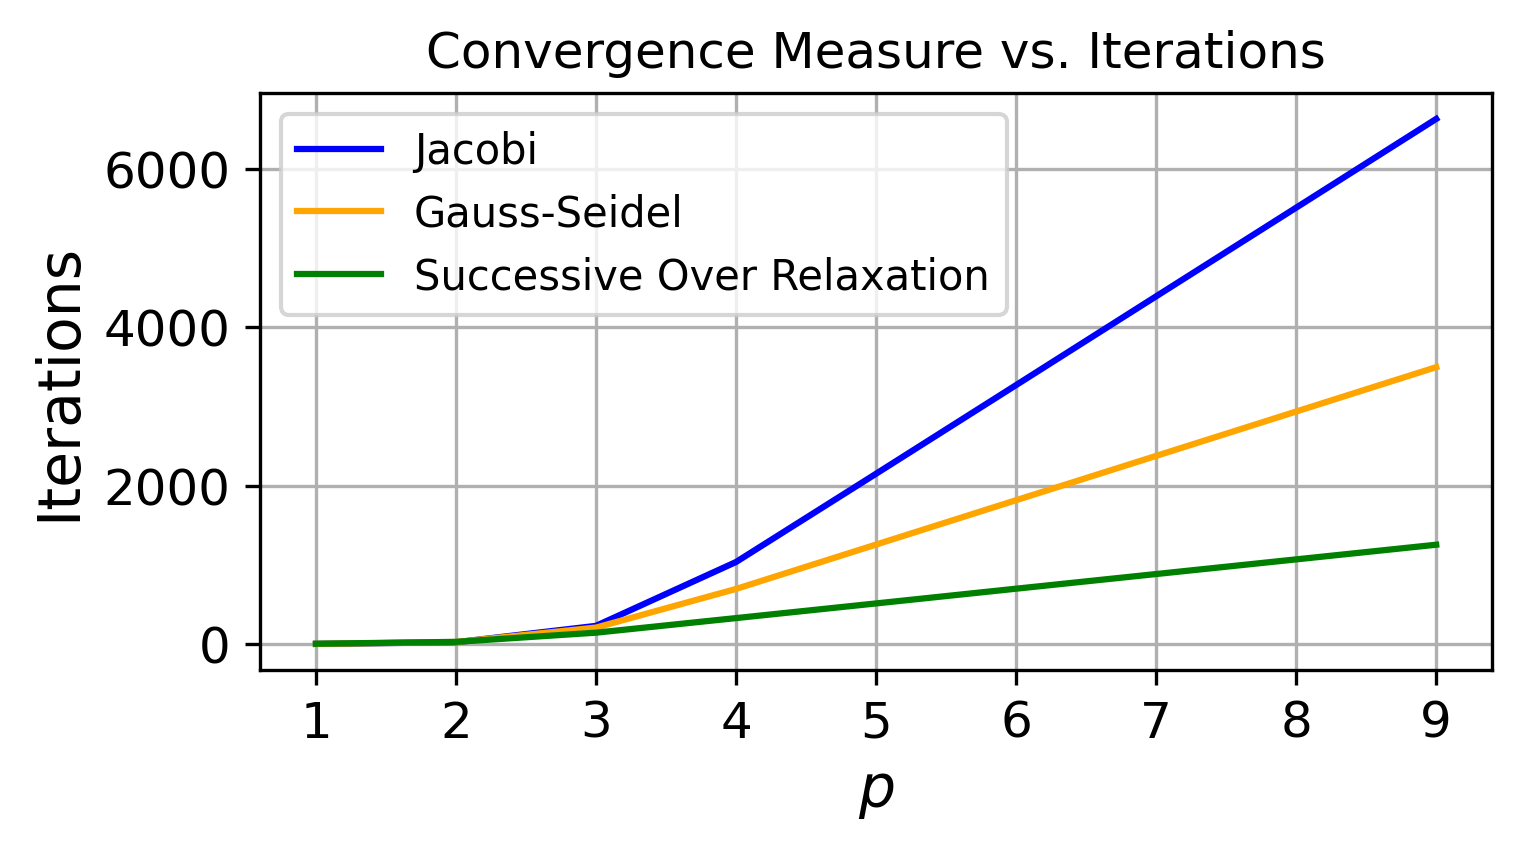
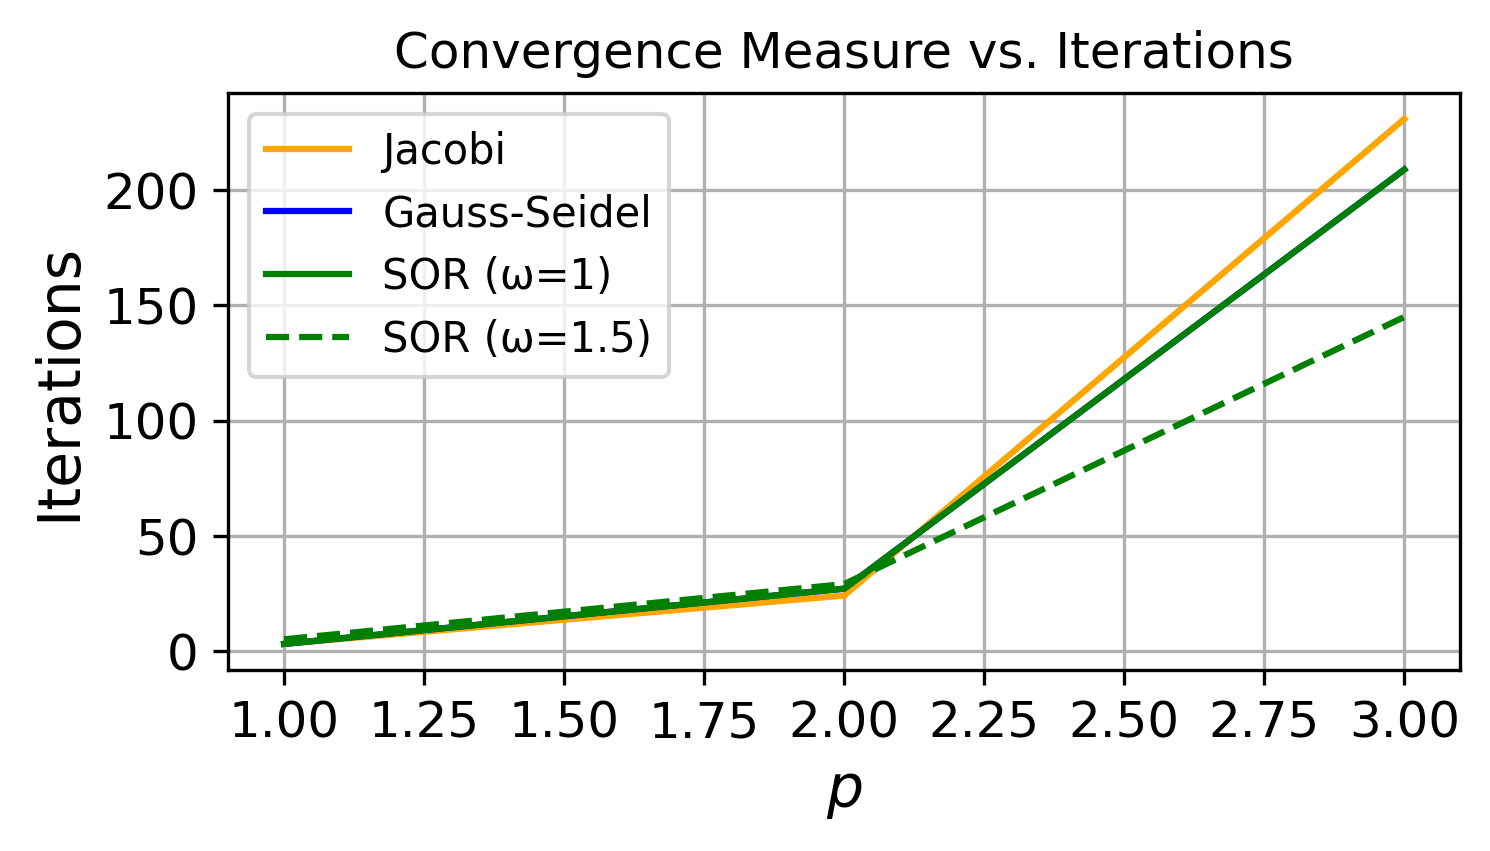
new colors and linestyles for plots

Changed region(s): [[0.0309, 0.0917, 0.9879, 0.9777], [0.247, 0.0306, 0.8644, 0.0917], [0.0309, 0.3055, 0.0617, 0.3361]]

diff --git a/src/visualizations.py b/src/visualizations.py
@@ -68,14 +68,137 @@ def animate_1c(L, N, c, deltat):
     
     animation = FuncAnimation(fig, animate, frames=1500, interval=1)
     animation.save("plots/network_animation10.gif", fps=50,  writer="ffmpeg")
+    plt.show()   
+
+
+def plot_analytical_solution(y, solutions_vals, times, D):
+    """
+    Funcion comparing analytical solution to numerical solution. 
+    Plotting points for numerical solution and line for analytical soltution 
+    """
+    nx = 100
+    y_analytic = np.linspace(0.0, 1.0, nx)
+
+    plt.figure(figsize=(4.5, 3))
+    colors = ["orange", "blue", "green", "purple", "brown"]
+
+    for i, t_val in enumerate(times):
+        # Analytical
+        c_analytical = [solutions.analytical_solution(yy, t_val, D=D) for yy in y_analytic]
+        plt.plot(y_analytic, c_analytical, color = colors[i], linewidth=0.8, label=f"t={t_val:.3g}")
+
+        c_analytical = np.array(c_analytical)
+
+        # mean of the row (should theoretically all be the same)
+        c2D = solutions_vals[i]
+        # c_avg = np.mean(c2D, axis=1)
+        c_first = c2D[:, 0]  
+
+        # slice array to avoid clutteredness
+        plt.plot(y[::2], c_first[::2], "o", color = colors[i], markersize=2)
+
+    plt.xlabel("y (Position)")
+    plt.ylabel("Concentration c(y, t)")
+    plt.legend()
+    plt.title("Diffusion Simulation vs Analytical Solution")
+    plt.grid(True)
+    plt.savefig("plots/diffusion_analytical.png", dpi=300, bbox_inches="tight")
     plt.show()
 
-def visualization_1i(p_values, iterations_jacobi, iterations_gauss_seidel, iterations_sor):
-    
+
+def plot_five_states(all_c, times):
+    """
+    function plotting the 2D diffustion grid, 
+    5 states for t = 0, 0.001, 0.01, 0.1, 1.0
+    """
+
+    # # read in/ generate data 
+    # data_file = "2D_diffusion.pkl"
+    # create_new_data = False
+    # all_c, times = solutions.check_and_parse_data(data_file, create_new_data, parameters)
+
+    # plot setup
+    fig, axs = plt.subplots(2, 3, figsize=(5.8, 4.3), sharex=True, sharey=True)
+    fig.suptitle("2D Diffusion at Different t Values")
+    axs = axs.flatten()  
+
+    # Hide the last unused subplot
+    axs[-1].set_visible(False)  
+    for i in range(5):
+        im = axs[i].imshow(all_c[i], cmap="viridis", interpolation="nearest", origin="lower")
+        axs[i].set_title(f"t = {times[i]}")
+        if i >1: 
+            axs[i].set_xlabel("x")
+
+    # set proper ticks and labels
+    axs[2].xaxis.set_tick_params(which='both', labelbottom=True)
+    axs[0].set_ylabel("y")
+    axs[3].set_ylabel("y")
+
+    cbar_ax = fig.add_axes([0.92, 0.09, 0.02, 0.75])  # [left, bottom, width, height]
+    fig.colorbar(im, cax=cbar_ax, label="Concentration")
+
+    plt.tight_layout(rect=[0, 0, 0.93, 1])
+    plt.subplots_adjust(wspace=0.05, hspace=0.2) 
+    plt.savefig("plots/diffusion_snapshots.png", dpi=300)
+    plt.show()
+
+def plot_simulation_without_animation(grids, N):
+    fig, ax = plt.subplots(figsize=(7, 7))
+
+    c_plot = ax.pcolormesh(grids[-1], cmap="viridis", edgecolors="k", linewidth=0.5)
+
+    # plt.imshow(c, cmap="viridis", interpolation="nearest", origin="lower")
+    plt.colorbar(c_plot, ax=ax, label="Concentration")
+    ax.set_xticks(np.arange(N))
+    ax.set_yticks(np.arange(N))
+    ax.set_xticklabels([])
+    ax.set_yticklabels([])
+    ax.set_title("2D Diffusion")
+    plt.show()
+
+
+def animate_2f(update_func, grid, num_steps, N, gamma, dt, interval=50):
+    path = "data/2D_diffusion_comparison.pkl"
+    if os.path.exists(path):
+        grids, times = pkl.load(open(path, "rb"))
+    else:
+        grids, times = update_func(grid, num_steps, N, gamma, dt)
+
+    print(f"Starting grid: {grid}")
+
+    fig, axs = plt.subplots(figsize=(6, 6))
+    img = axs.imshow(grids[0], cmap="viridis", interpolation="nearest", origin="lower")
+    plt.colorbar(img, ax=axs, label="Concentration")
+    axs.set_title("2D Diffusion Simulation")
+
+    def animate(frame):
+        img.set_array(grids[frame])
+        axs.set_title(f"2D Diffusion Simulation (Step: {frame:.3g})")
+
+    animation = FuncAnimation(
+        fig, animate, frames=len(grids), interval=interval, blit=False
+    )
+    animation.save("plots/2D_diffusion.gif", fps=50, writer="ffmpeg")
+
+    plt.close(fig)
+    return animation
+
+
+def visualization_1i(p_values, iterations_jacobi, iterations_gauss_seidel, iterations_sor, colors):
+
     plt.figure(figsize=(5.3, 2.5))
-    plt.plot(p_values, iterations_jacobi, color='blue', label="Jacobi")
-    plt.plot(p_values, iterations_gauss_seidel, color='orange', label="Gauss-Seidel")
-    plt.plot(p_values, iterations_sor, color='green', label="Successive Over Relaxation")
+    
+    linestyles = ['-', '--', '-.', ':']
+    num_styles = len(linestyles)
+
+    plt.plot(p_values, iterations_jacobi, color=colors[0], label="Jacobi")
+    plt.plot(p_values, iterations_gauss_seidel, color=colors[1], label="Gauss-Seidel")
+
+    for i, (omega, sor_iterations) in enumerate(iterations_sor.items()):
+        plt.plot(p_values, sor_iterations, label=f"SOR (ω={omega})", color=colors[2], linestyle=linestyles[i % num_styles])
+
+    # plt.plot(p_values, iterations_sor, color=colors[2], label="Successive Over Relaxation")
     plt.xlabel(r'$p$', fontsize=14)
     plt.ylabel('Iterations', fontsize=14)
     plt.xticks(fontsize=12)
@@ -87,12 +210,15 @@ def visualization_1i(p_values, iterations_jacobi, iterations_gauss_seidel, itera
     plt.show()
 
 # 1ja
-def visualization_1j_omega_iters(iters_N, omega_range):
+def visualization_1j_omega_iters(iters_N, omega_range, colors):
 
     plt.figure(figsize=(5.3, 2.5))
 
-    for N, iters in iters_N.items():
-        plt.plot(omega_range, iters, label=f"N = {N}")
+    linestyles = ['-', '--', '-.', ':']
+    num_styles = len(linestyles)
+
+    for i, (N, iters) in enumerate(iters_N.items()):
+        plt.plot(omega_range, iters, label=f"N = {N}", color=colors[2],  linestyle=linestyles[i % num_styles])
 
     plt.xlabel(r'$\omega$', fontsize=14)
     plt.ylabel('Iterations', fontsize=14)
@@ -103,10 +229,10 @@ def visualization_1j_omega_iters(iters_N, omega_range):
     plt.show()
 
 # 1jb
-def visualization_1j_N_omegas(N_values, optimal_omegas):
+def visualization_1j_N_omegas(N_values, optimal_omegas, colors):
 
     plt.figure(figsize=(5.3, 2.5))
-    plt.plot(N_values, optimal_omegas, marker='o', linestyle='-')
+    plt.plot(N_values, optimal_omegas, marker='o', linestyle='-', color=colors[2])
     plt.xlabel('Grid Size N', fontsize=14)
     plt.ylabel('Optimal ω', fontsize=14)
     plt.title("Optimal ω vs. Grid Size N", fontsize=14)
